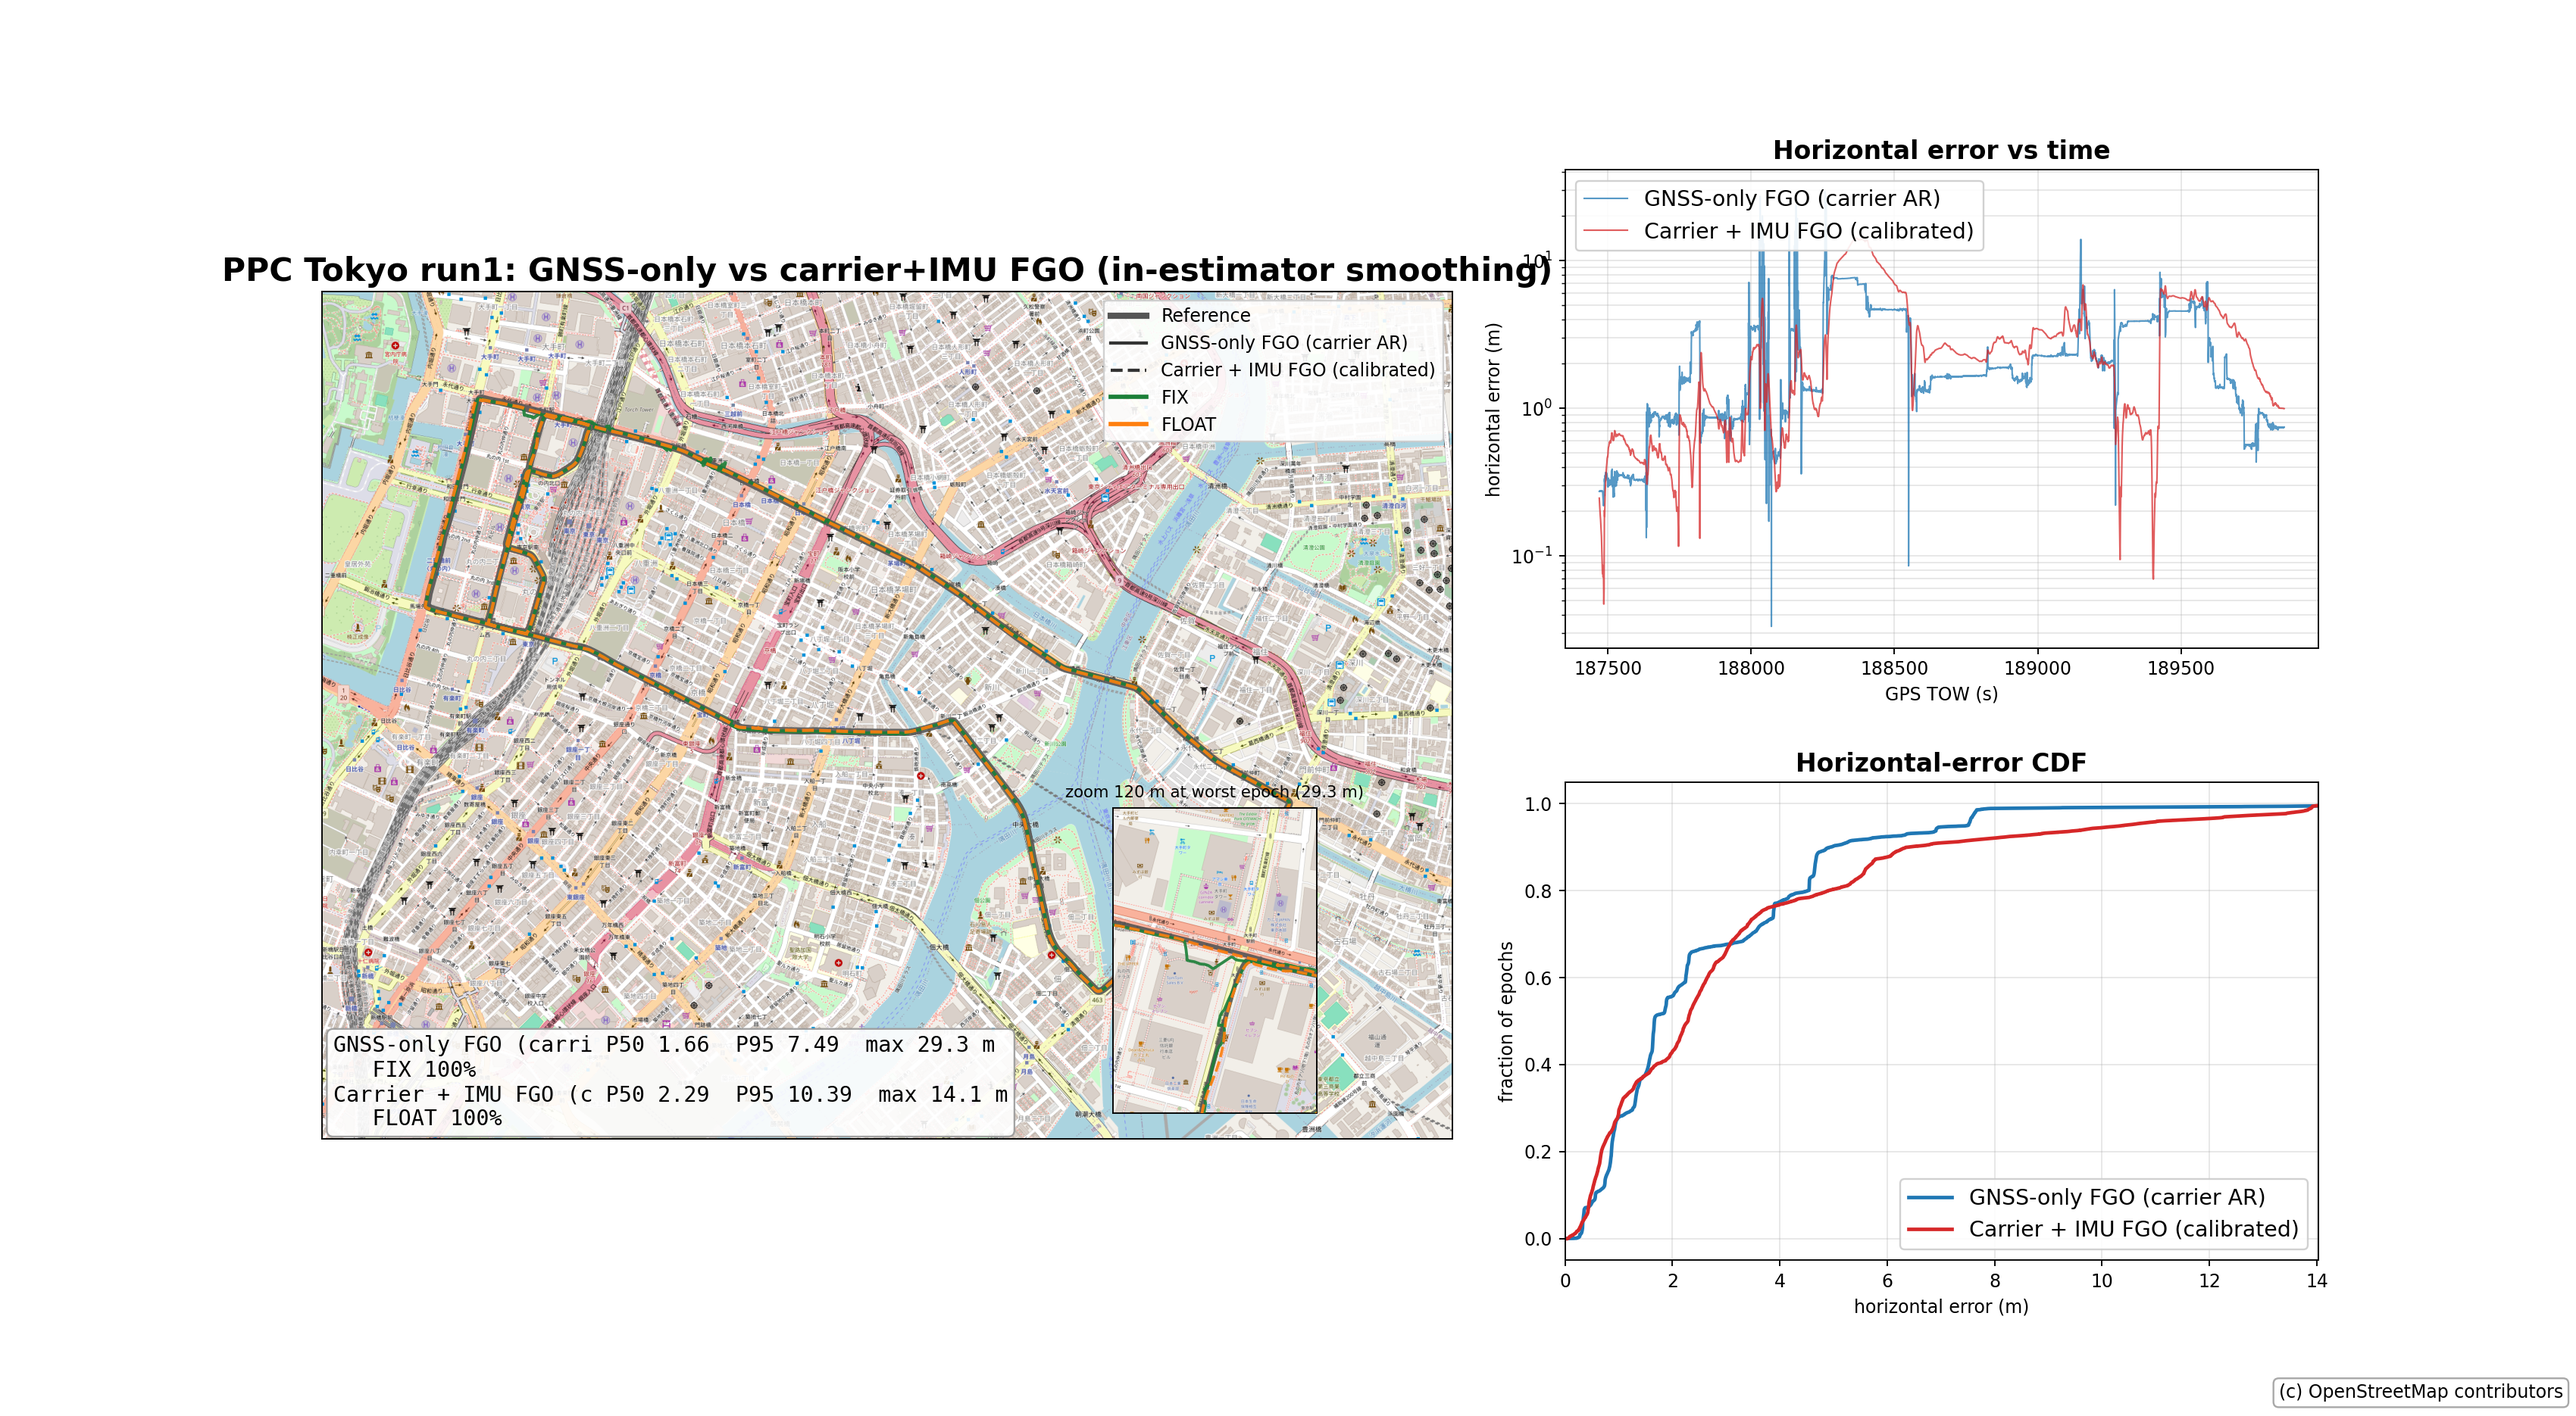
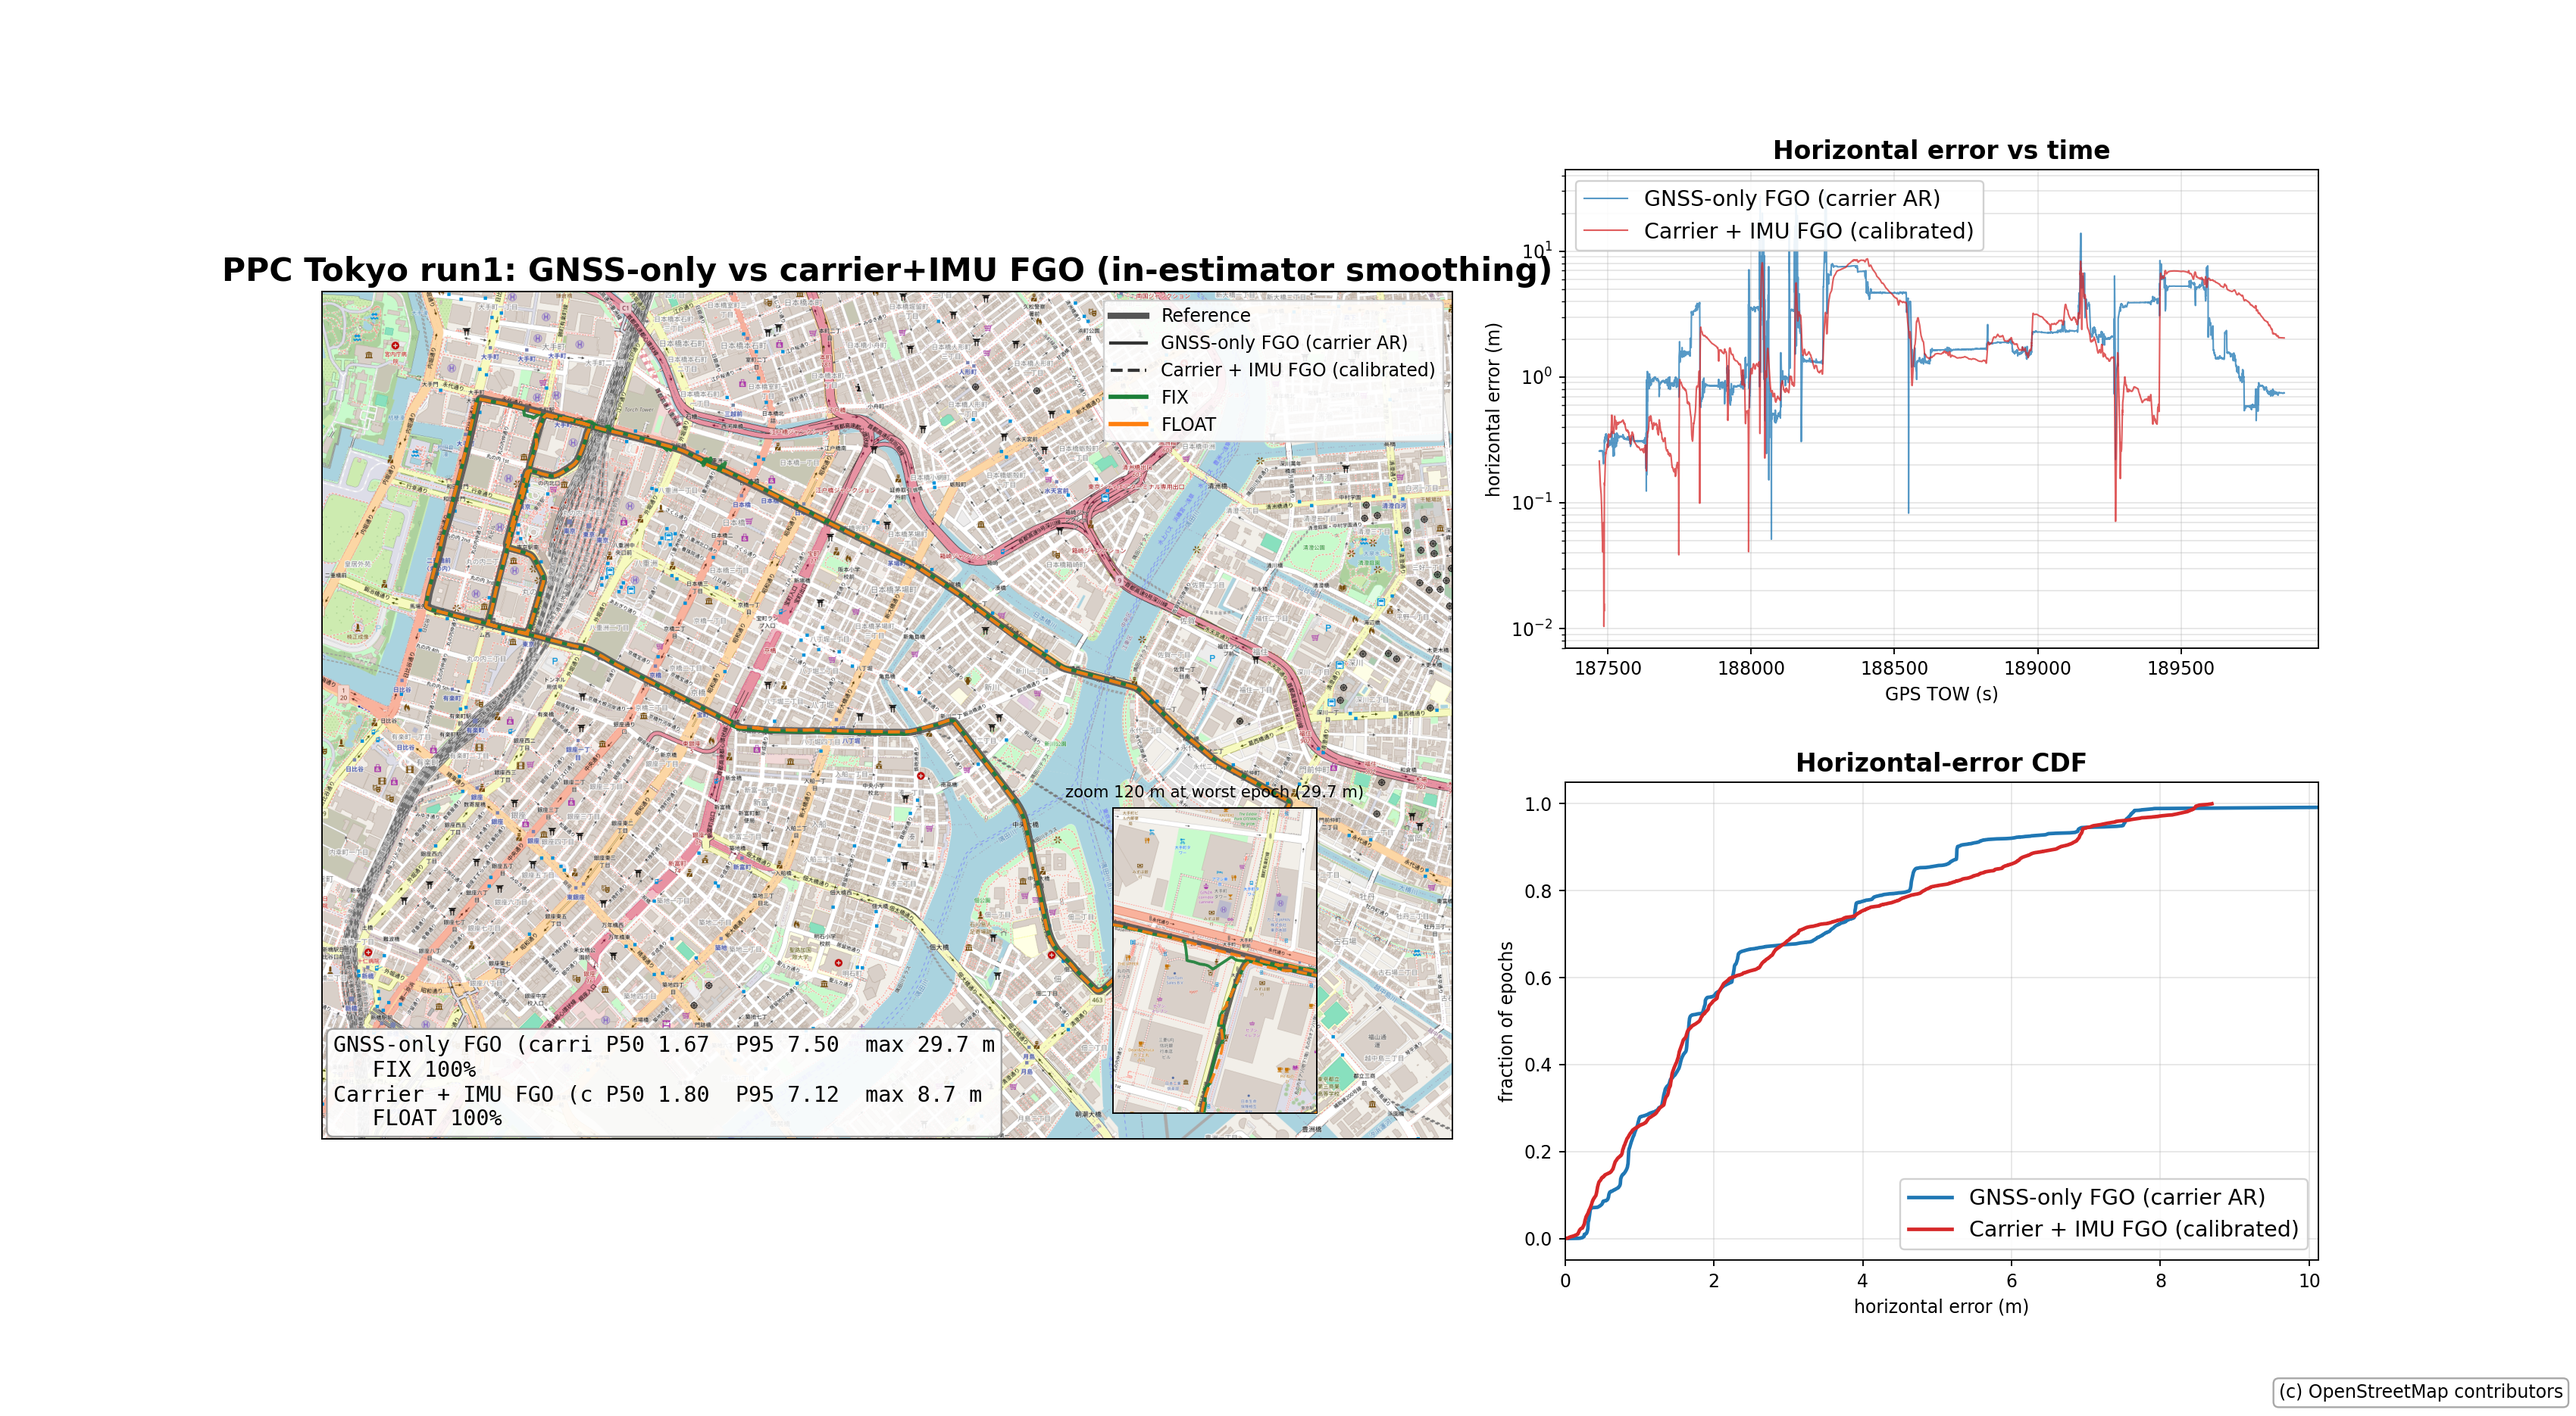
docs(ppc): report the inuex35 sigmas and fixed-lag AR findings
Refresh the smoothing figure with the inuex35 reference DD sigmas
(carrier 0.003 m, pseudorange 0.3 m): Tokyo run1 carrier+IMU now reaches
P50 1.80 / P95 7.12 / max 8.7 m (RMS 3.50) versus carrier-only
1.67 / 7.50 / 29.7 m. Document that --fixed-lag-partial-ar fixes
2610/11866 epochs with FIXED-epoch P50 0.299 m (RMS 2.65) matching the
upstream FixRMS, that the full-set ratio degenerates on a near-singular
joint mode (ambiguity std 0.04 cyc, BSR 1.0), and that the remaining gap
to the 63% reference fix rate needs the upstream graph composition.

diff --git a/docs/ppc_rtk_vs_gnss_imu_fusion.md b/docs/ppc_rtk_vs_gnss_imu_fusion.md
@@ -168,10 +168,27 @@ the earlier hand-tuned "noise x0.1" result to within 0.01 m.
 
 ### In-estimator trajectory smoothing
 
-With the calibrated noise and a 20 s fixed-lag window the estimated
-trajectory is smoothed entirely inside the estimator — no post-processing
-(filter, RTS or spline). The figure auto-draws a 120 m zoom inset at the
-worst combined epoch so the local track shape can be inspected.
+With the calibrated IMU noise, the inuex35 reference DD sigmas
+(`--dd-carrier-sigma 0.003 --dd-pseudorange-sigma 0.3`) and a 20 s
+fixed-lag window the estimated trajectory is smoothed entirely inside the
+estimator — no post-processing (filter, RTS or spline). On Tokyo run1 the
+carrier+IMU arm reaches P50 1.80 / P95 7.12 / max 8.7 m (RMS 3.50) versus
+the carrier-only P50 1.67 / P95 7.50 / max 29.7 m (RMS 3.61): the median is
+within 0.13 m while the tail and worst epoch improve. The figure
+auto-draws a 120 m zoom inset at the worst combined epoch.
+
+### Ambiguity resolution in the fixed lag
+
+The fixed-lag AR resolves integers too. With `--fixed-lag-partial-ar`
+(ranked subset LAMBDA retry) Tokyo run1 fixes 2610/11866 epochs and the
+FIXED epochs are accurate (horizontal P50 0.299 m, RMS 2.65) versus the
+float epochs (P50 2.05, RMS 3.72) — consistent with the upstream inuex35
+reference FixRMS 0.29 m. The full-set LAMBDA ratio sits near 1.0 because a
+near-singular joint ambiguity mode degenerates the search (the ambiguity
+estimates themselves are precise: median std 0.04 cyc, LAMBDA BSR 1.0); the
+subset retry drops that mode. The remaining gap to the reference fix rate
+(63%) needs the upstream graph composition (1 s fixed lag, SD Doppler,
+NHC/ZUPT, held-integer conditioning), not a single parameter.
 
 ![Carrier-only vs calibrated carrier+IMU FGO](ppc_fgo_imu_smoothing.png)
 
